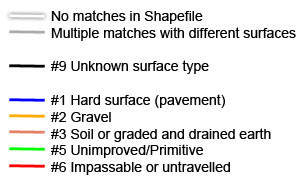
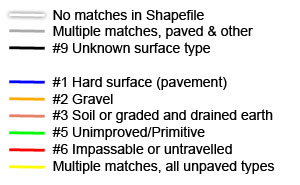
Change to tag mixed gravel/soil/unimproved ways as a generic "unpaved"

Changed region(s): [[0.03, 0.0541, 0.99, 0.9459], [0.03, 0.2432, 0.15, 0.2703]]

diff --git a/vt_road_surface_tags.py b/vt_road_surface_tags.py
@@ -223,7 +223,8 @@ class SurfaceWayCollector(WayCollector):
 		
 		if len(candidates):
 			candidates = sorted(candidates, key=lambda k: k['bbox_difference'])
-			way['shp_surface_matches'] = ''			
+			way['shp_surface_matches'] = ''
+			way['shp_surfaces_all_unpaved'] = True
 			
 			if candidates[0]['bbox_difference'] < 8000:
 				way['shp_surfaces_match'] = True
@@ -240,8 +241,11 @@ class SurfaceWayCollector(WayCollector):
 				
 				way['shp_surface_matches'] += '<hr/><p>Route: {} <br/>\nName: {} <br/>\nSurface: {} - {} <br/>\nDifference: {}</p>\n'.format(shapeRec.record[self.route_rec], escape(shapeRec.record[self.name_rec]), shapeRec.record[self.surface_rec], self.surface_names[shapeRec.record[self.surface_rec]], candidate['bbox_difference'])
 				
-				if candidate['bbox_difference'] < cutoff and shapeRec.record[self.surface_rec] != way['shp_surface']:
-					way['shp_surfaces_match'] = False
+				if candidate['bbox_difference'] < cutoff:
+					if shapeRec.record[self.surface_rec] != way['shp_surface']:
+						way['shp_surfaces_match'] = False
+					if shapeRec.record[self.surface_rec] not in (2, 3, 5, 6):
+						way['shp_surfaces_all_unpaved'] = False
 						
 			
 			if way['shp_surfaces_match']:
@@ -307,7 +311,10 @@ class NewSurfaceKmlOutput(SurfaceKmlOutput):
 	def line_style(self, way):
 		if way['shp_surface']:
 			if not way['shp_surfaces_match']:
-				return 'mixed'
+				if way['shp_surfaces_all_unpaved']:
+					return 'unpaved'
+				else:
+					return 'mixed'
 			elif way['shp_surface'] == 1:
 				return 'paved'
 			elif way['shp_surface'] == 2:
